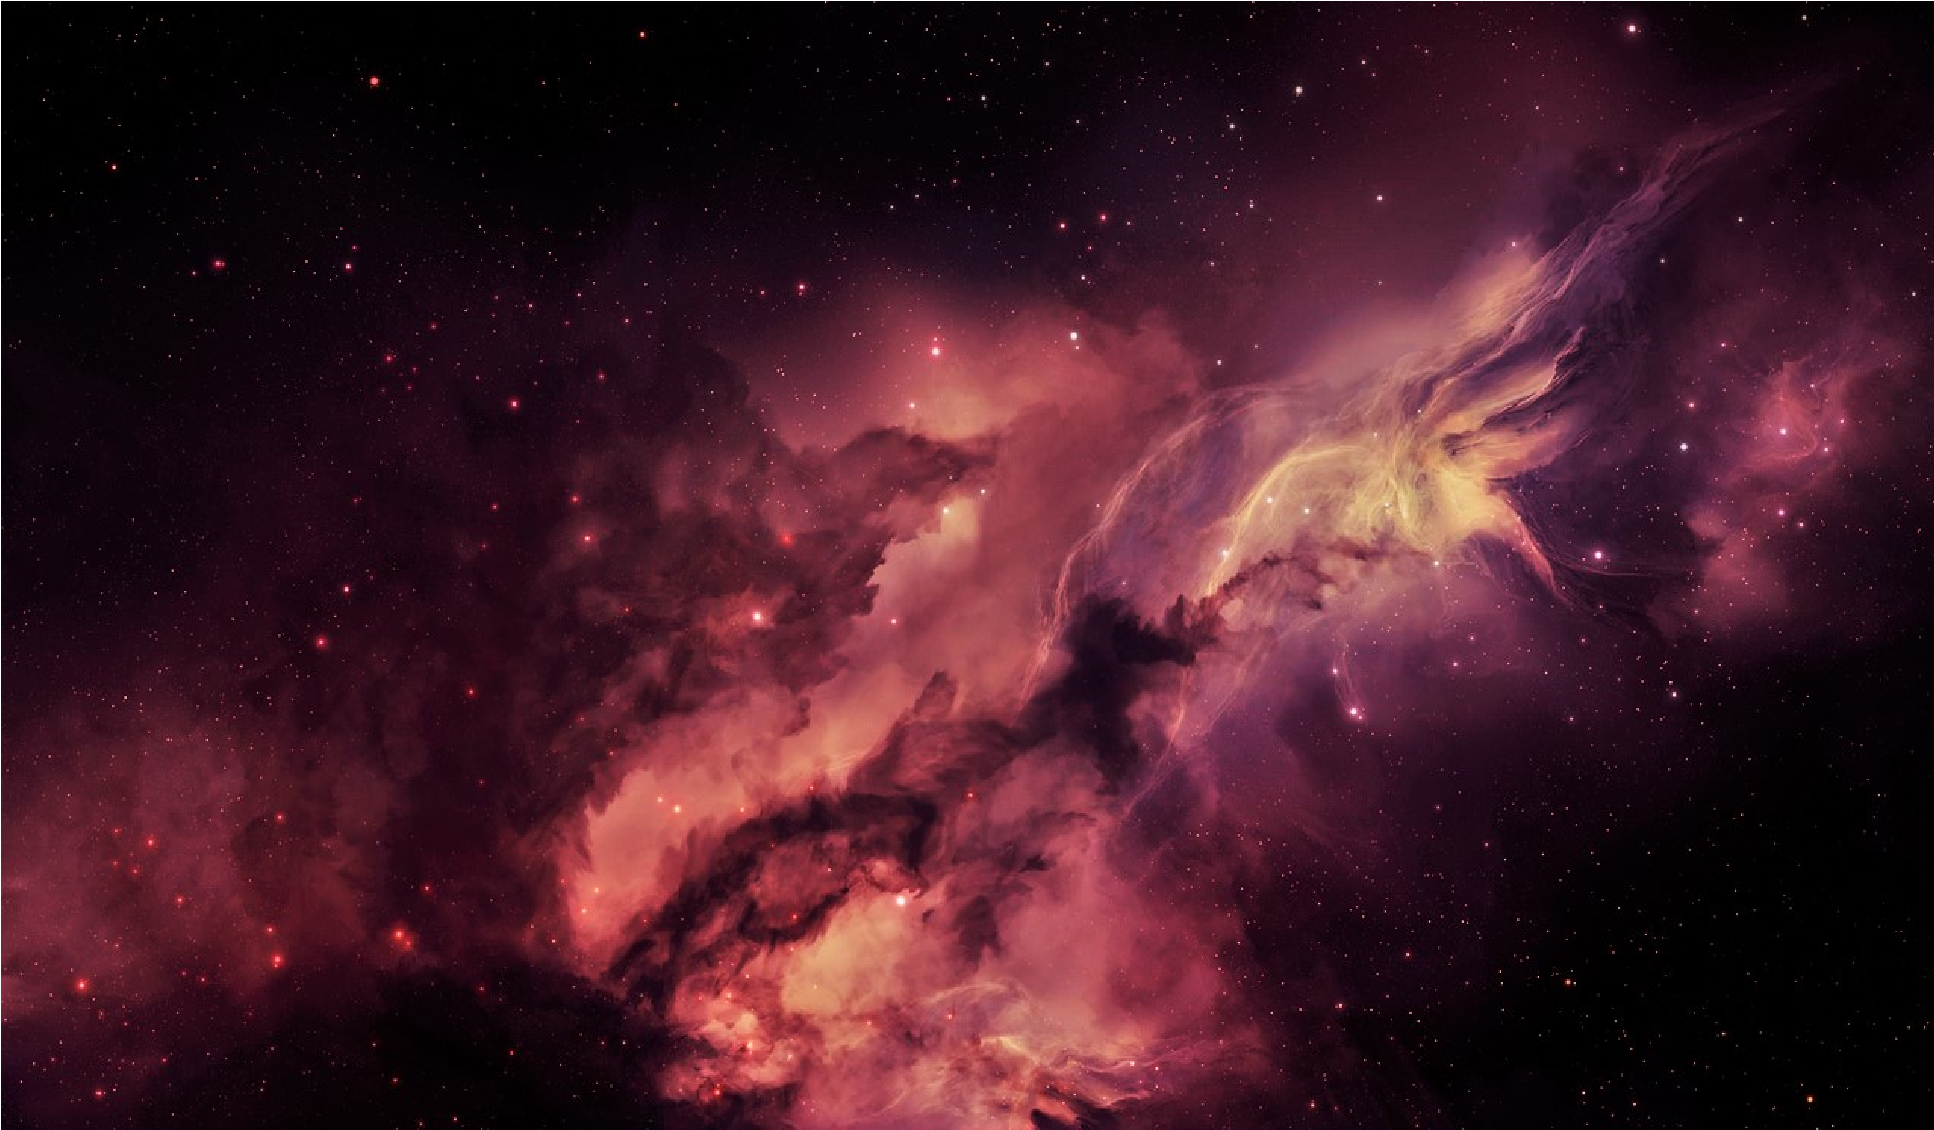
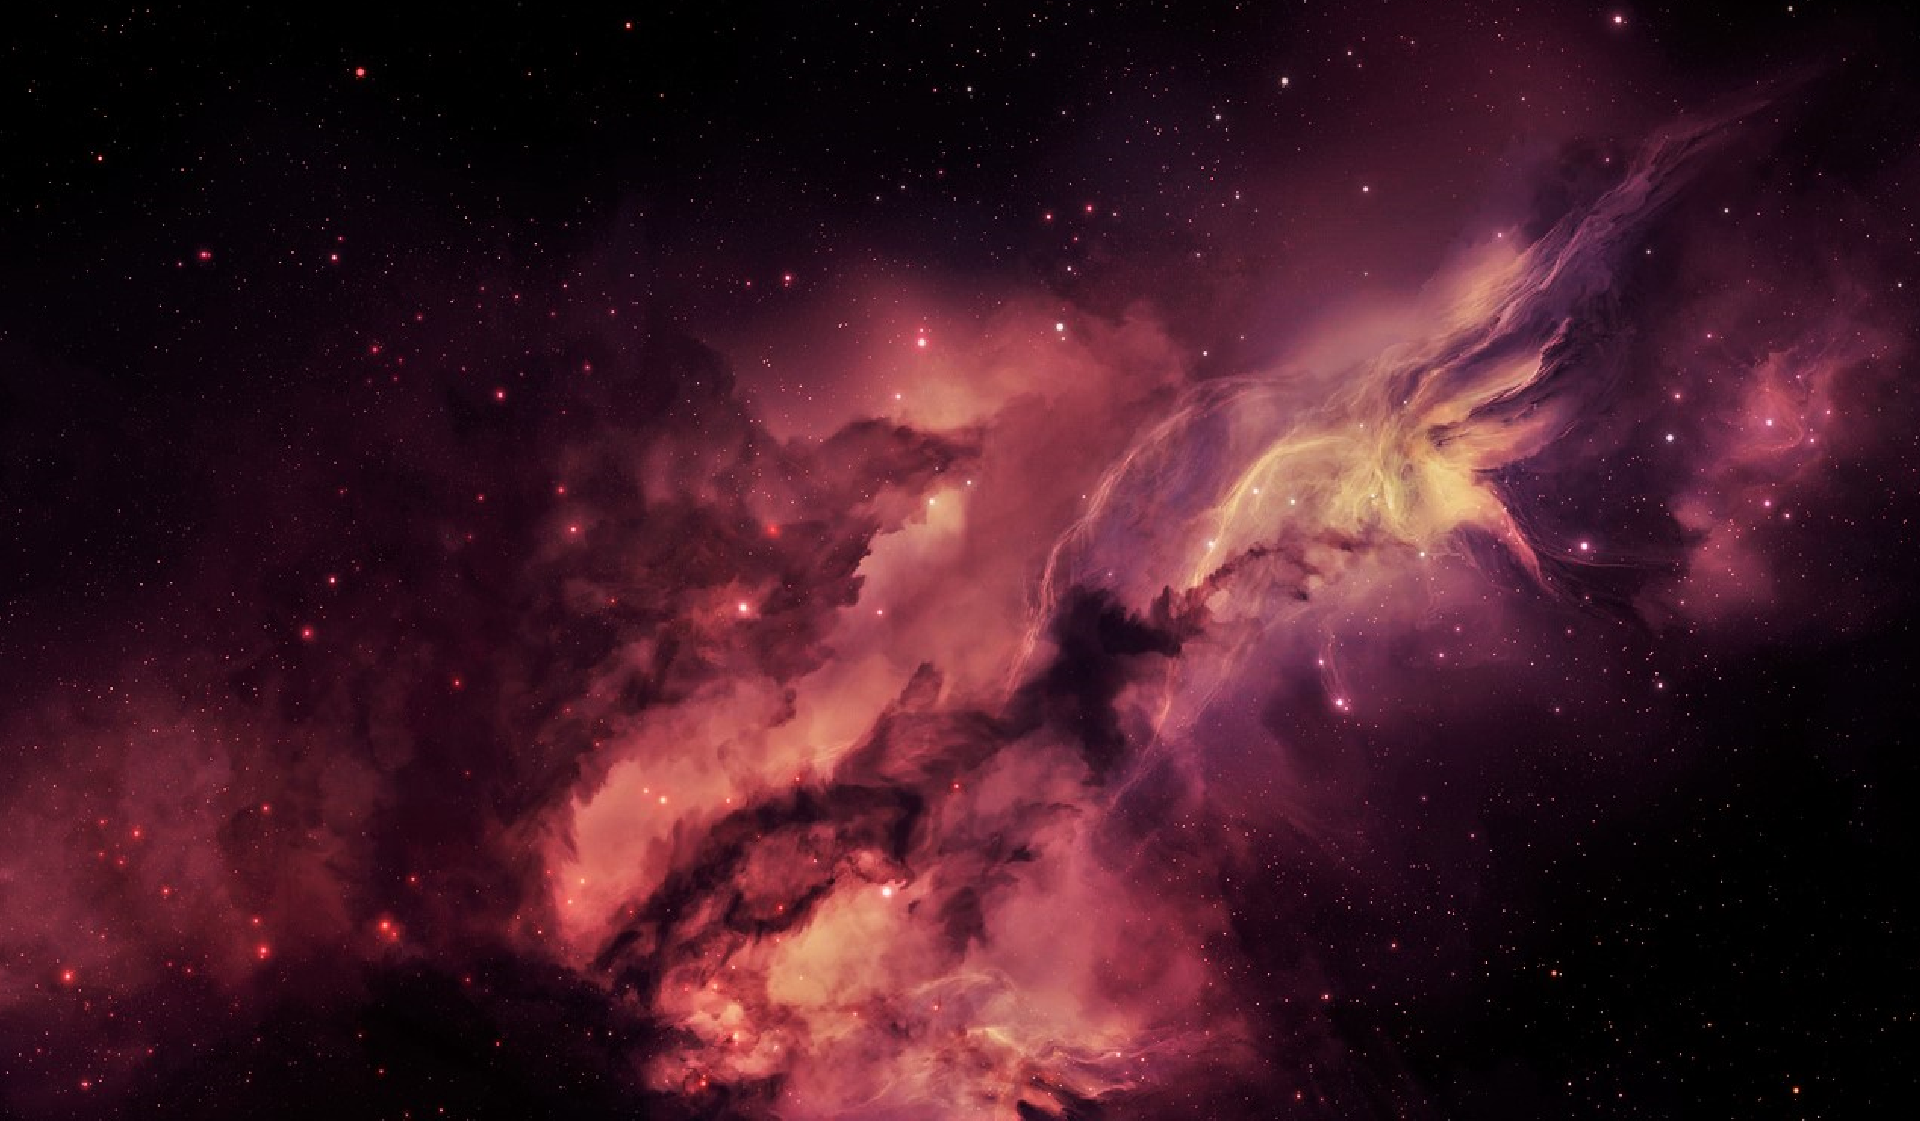
compress images

diff --git a/index.html b/index.html
@@ -43,7 +43,7 @@
   
     <div class="container d-flex align-items-center">
       <br><br>
-      <img height="120" width="110" src="assets/img/header/mcLogo_transparent.png"></img>
+      <img height="120" width="110" src="assets/img/header/mcLogo_transparent-min_optimized.png"></img>
       <img height="120" width="150" src="assets/img/header/mcasLogo_transparent.png" >
         
       <div class="logo mr-auto" >

diff --git a/assets/css/style.css b/assets/css/style.css
@@ -338,7 +338,7 @@ h1, h2, h3, h4, h5, h6 {
   width: 100%;
   overflow: hidden;
   position: relative;
-  background-image: url("../img/banner.png");
+  background-image: url("../img/banner-min_optimized.png");
   padding: 0;
 
 }
